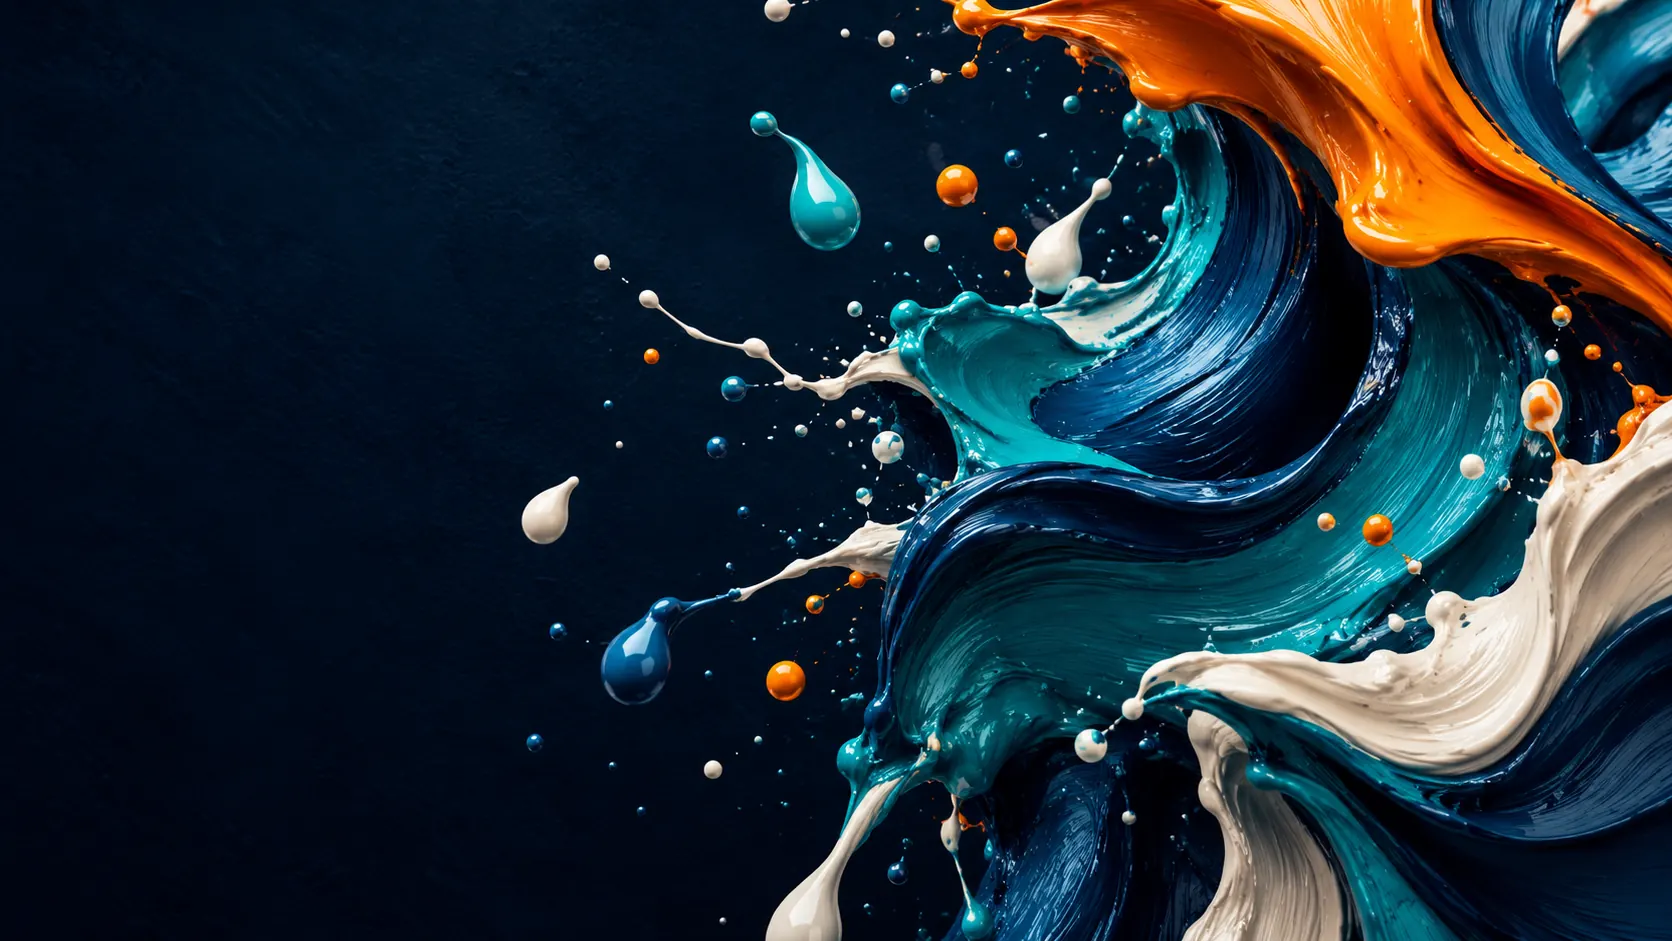
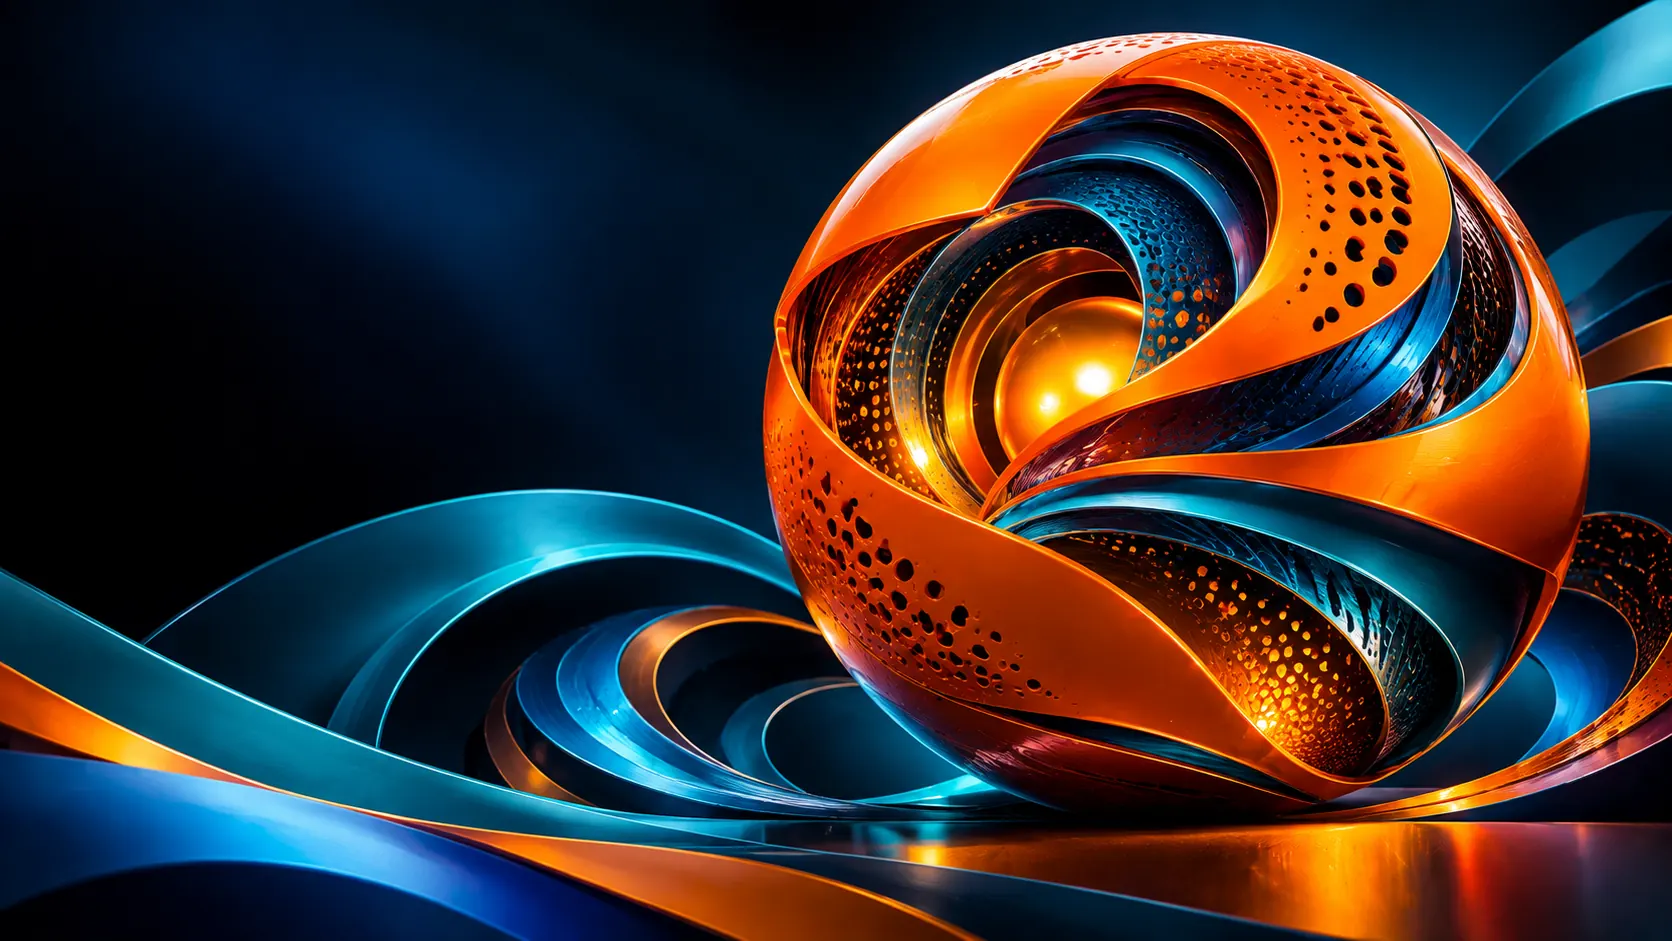
Home page redesign

diff --git a/app/globals.css b/app/globals.css
@@ -208,15 +208,14 @@ font-family:var(--font-sans),ui-sans-serif,system-ui,-apple-system,"Segoe UI",Ro
 .cta{background:linear-gradient(120deg,#101820 55%,#087F9D 130%);border-top:8px solid var(--orange)}
 
 .founder-photo{margin:48px 0 8px}.founder-photo img{width:100%;aspect-ratio:4/3;object-fit:cover;object-position:60% 30%;display:block;box-shadow:12px 12px 0 var(--orange)}@media(min-width:768px){.founder-photo img{aspect-ratio:21/9;box-shadow:20px 20px 0 var(--orange)}}
-.digital-band{margin:40px 0 56px}.digital-band img{width:100%;aspect-ratio:16/10;object-fit:cover;display:block}@media(min-width:768px){.digital-band img{aspect-ratio:21/7}}
 
 .beyond-photo img{aspect-ratio:4/5;object-position:58% 40%}
-.bg-teal .cap-bi{background:linear-gradient(180deg,rgba(16,24,32,.35) 0%,#101820 78%),url(/brand/data.webp) 78% 15%/cover}
 .diag-photo{width:100%;aspect-ratio:16/9;object-fit:cover;object-position:60% 30%;display:block;box-shadow:10px 10px 0 #101820}
 .method-band{margin:36px 0 40px}.method-band img{width:100%;height:auto;display:block}
 .sol-img{width:100%;aspect-ratio:16/8;object-fit:cover;object-position:70% 40%;display:block;margin:20px 0 8px}
 
-.bg-teal .cap-ai{background:linear-gradient(180deg,rgba(16,24,32,.3) 0%,#101820 80%),url(/brand/ai.webp) 50% 40%/cover}
+.bg-teal .cap-business-systems,.bg-teal .cap-business-intelligence,.bg-teal .cap-digital-systems,.bg-teal .cap-ai-automation{background:linear-gradient(180deg,rgba(16,24,32,.3) 0%,#101820 80%) ,var(--cap-img) 50% 40%/cover #101820}
+.bg-teal .cap-business-systems{--cap-img:url(/brand/bsys.webp)}.bg-teal .cap-business-intelligence{--cap-img:url(/brand/bi.webp)}.bg-teal .cap-digital-systems{--cap-img:url(/brand/dsys.webp)}.bg-teal .cap-ai-automation{--cap-img:url(/brand/ai.webp)}
 .ins-head{display:grid;gap:32px;align-items:center;margin-bottom:48px}@media(min-width:900px){.ins-head{grid-template-columns:1fr 1.1fr;gap:64px}}
 .ins-photo img{width:100%;aspect-ratio:4/3;object-fit:cover;object-position:55% 30%;display:block;box-shadow:-14px 14px 0 var(--turq)}
 .footer{background:linear-gradient(180deg,rgba(16,24,32,.88) 0%,rgba(16,24,32,.8) 100%),url(/brand/footer.webp) center/cover #101820}

diff --git a/components/pages.jsx b/components/pages.jsx
@@ -125,6 +125,8 @@ export function StageList({ detailed }) {
   );
 }
 
+const SOL_IMG = { "business-systems": "bsys", "business-intelligence": "bi", "digital-systems": "dsys", "ai-automation": "ai" };
+
 export function HomePage() {
   const latest = articles.slice(0, 3);
   return (
@@ -160,10 +162,9 @@ export function HomePage() {
       <section className="sec bg-teal tone-teal" id="solution">
         <div className="wrap">
           <SectionHeading title={solutionIntro.title} lead={solutionIntro.lead} />
-          <Reveal className="digital-band"><img src="/brand/digital.webp" alt="" width="1600" height="900" loading="lazy" decoding="async" /></Reveal>
           <ul className="caps">
             {solutions.map((s, i) => (
-              <li key={s.slug}><Reveal delay={i * 80} className={cx("cap", s.slug === "business-intelligence" && "cap-bi", s.slug === "ai-automation" && "cap-ai")}>
+              <li key={s.slug}><Reveal delay={i * 80} className={cx("cap", `cap-${s.slug}`)}>
                 <h3 className="cap-name">{s.homeName}</h3>
                 <p className="body">{s.homeText}</p>
                 <Link href={"/what-we-solve#" + s.slug} className="tlink stretch">How this works</Link>
@@ -264,8 +265,7 @@ export function WhatWeSolvePage() {
           {solutions.map((s) => (
             <article key={s.slug} id={s.slug} className="sol">
               <h2 className="h2">{s.name}</h2>
-              {s.slug === "ai-automation" && <img className="sol-img" src="/brand/ai.webp" alt="" width="1400" height="788" loading="lazy" decoding="async" />}
-              {s.slug === "business-intelligence" && <img className="sol-img" src="/brand/data.webp" alt="" width="1400" height="788" loading="lazy" decoding="async" />}
+              {SOL_IMG[s.slug] && <img className="sol-img" src={`/brand/${SOL_IMG[s.slug]}.webp`} alt="" width="1400" height="788" loading="lazy" decoding="async" />}
               <div className="sol-grid">
                 <Rows items={[["The business problem", s.problem], ["What Mwega does", s.does], ["How the engagement works", s.how]]} />
                 <aside className="sol-side">

diff --git a/README.md b/README.md
@@ -14,4 +14,3 @@ Run locally with `npm install`, then `npm run dev`. Check a production build wit
 1. Push the `mwega-site` folder to the Git repository connected to the Vercel project.
 2. In Project Settings, Environment Variables, keep `NEXT_PUBLIC_WEB3FORMS_KEY` and `NEXT_PUBLIC_SITE_URL=https://mwega.com`. Add `RESEND_API_KEY` and `CONTACT_TO_EMAIL` only if you want the API route as a fallback.
 3. Run `npm run build` locally first, then deploy. Redeploy after any environment change.
-Reconnected with this new version on Vercel
